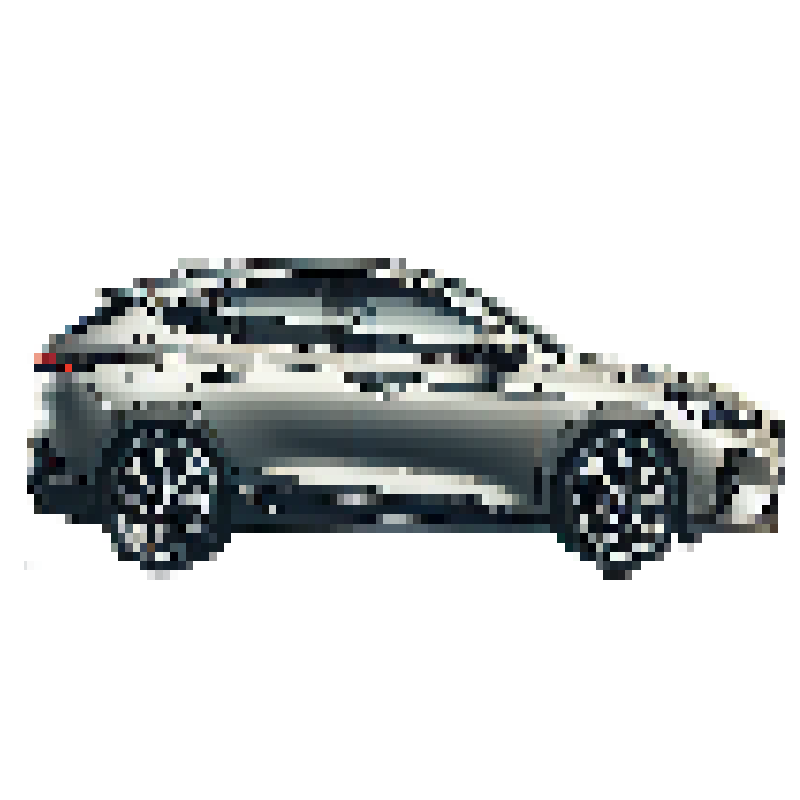
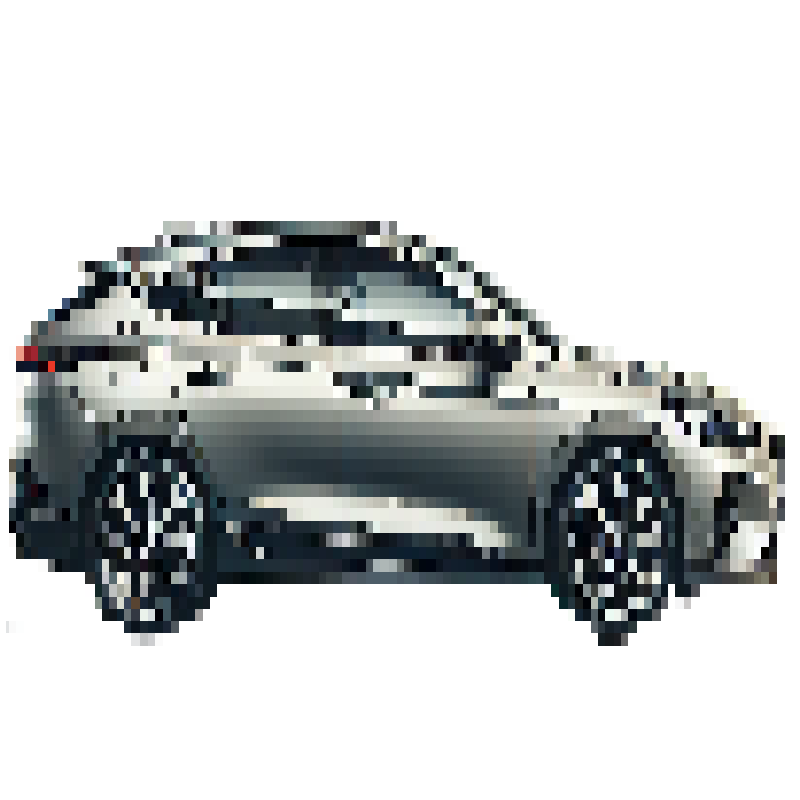
ｄ

Changed region(s): [[0.0, 0.25, 1.0, 0.8125]]

diff --git a/DxLib_TGS2025/Src/Object/car.cpp b/DxLib_TGS2025/Src/Object/car.cpp
@@ -27,8 +27,10 @@ void CarInit(void)
 	car.next_count = 1;//取得した道の配列番号
 	
 
-	car.image[0] = LoadGraph("Resource/images/left_car.png");
-	car.image[1] = LoadGraph("Resource/images/front_car.png");
+	car.image[0] = LoadGraph("Resource/images/car_right.png");
+	car.image[1] = LoadGraph("Resource/images/car_left.png");
+	car.image[2] = LoadGraph("Resource/images/car_up.png");
+	car.image[3] = LoadGraph("Resource/images/car_down.png");
 
 	car.start = false;//車の処理フラグ
 
@@ -66,7 +68,7 @@ void CarManagerUpdate(void)
 
 void CarDraw(void)
 {
-		DrawRotaGraph(car.position.x, car.position.y, 1.0, 0.0, car.animation, TRUE);
+		DrawRotaGraph(car.position.x, car.position.y, 0.1, 0.0, car.animation, TRUE);
 		DrawFormatString(930, 300, GetColor(255, 255, 255), "%f",car.position.x);
 		DrawFormatString(930, 200, GetColor(255, 255, 255), "%f", car.position.y);
 		DrawFormatString(930, 100, GetColor(255, 255, 255), "%d", car.x);
@@ -148,7 +150,7 @@ void CarMovePosition(void)
 				
 		break;
 	case eUp://上に
-		car.animation = car.image[1];
+		car.animation = car.image[2];
 		car.position.y -= 0.1f;
 		time++;
 		if (car.position.y < (car.current_y) * CAR_TROUT_LNEGTH + 121.0f)//微調整で120に1足している
@@ -158,7 +160,7 @@ void CarMovePosition(void)
 		}
 		break;
 	case eDown://下に
-		car.animation = car.image[1];
+		car.animation = car.image[3];
 		car.position.y += 0.1f;
 		time++;
 		if (car.position.y > (car.current_y) * CAR_TROUT_LNEGTH + 119.0f)//微調整で120から1引いている
@@ -228,12 +230,12 @@ void OverRoad(void)
 	switch (car.old_direction)
 	{
 	case eUp://上に
-		car.animation = car.image[1];
+		car.animation = car.image[2];
 		car.position.y -= 0.1f;
 		overroad++;
 		break;
 	case eDown://下に
-		car.animation = car.image[1];
+		car.animation = car.image[3];
 		car.position.y += 0.1f;
 		overroad++;
 		break;

diff --git a/DxLib_TGS2025/Src/Object/car.h b/DxLib_TGS2025/Src/Object/car.h
@@ -15,7 +15,7 @@ struct Car
 {
 	Vector2D position;
 	int animation;
-	int image[2];
+	int image[4];
 	bool start;
 	int x;
 	int y;
